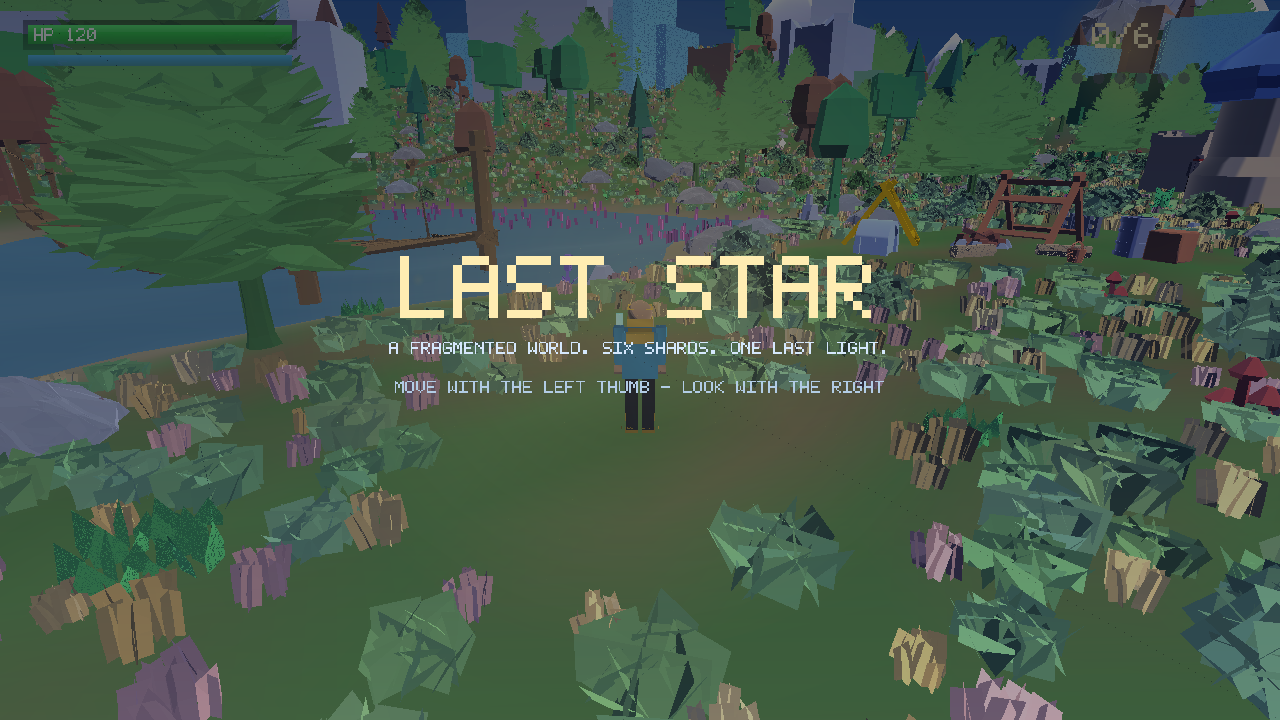
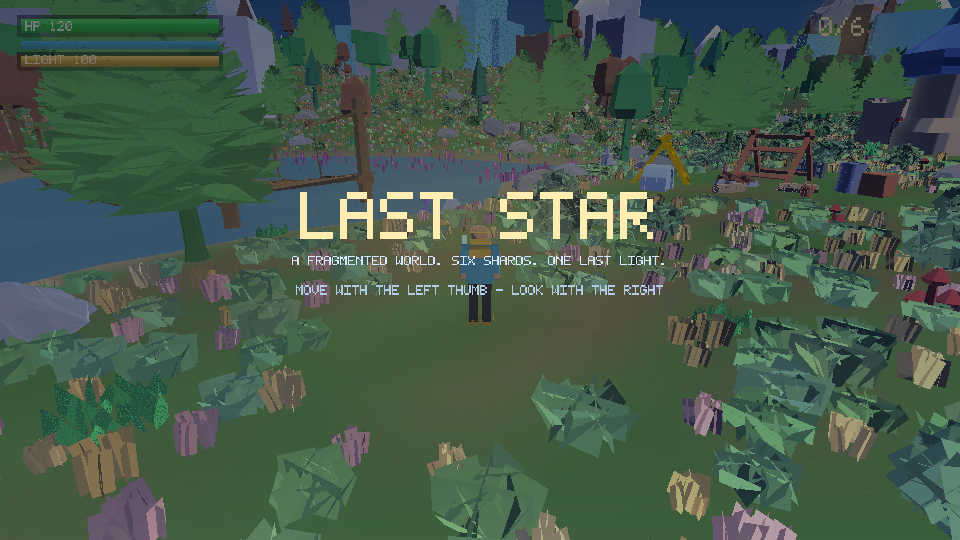
Fit long values in the journal card, and photograph real data
The preview was rendering an unbound menu, so the journal screenshots showed
the empty state. MenuPreview now binds a world with progress in it, and the
scroll-through report advances a real quest.

Chip values are fitted to their chip: a reward line like "+50 LIGHT CAPACITY"
is wider than a third of the card, and centred overflow hides text at both ends
rather than only the right. The location line moves into the gap above the
chips instead of colliding with them, and a description cut short ends in an
ellipsis rather than stopping mid-sentence.

diff --git a/app/src/main/java/com/laststar/game/ui/screens/QuestsScreen.java b/app/src/main/java/com/laststar/game/ui/screens/QuestsScreen.java
@@ -236,13 +236,13 @@ public final class QuestsScreen implements Screen {
                     Style.GOLD_LIGHT[0], Style.GOLD_LIGHT[1], Style.GOLD_LIGHT[2], alpha);
             QuestLog.Entry entry = i < rows.size() ? rows.get(i) : null;
             String title = entry == null ? "--"
-                    : fit(entry.def.title, font, w * 0.255f - 30f, 1, 0.6f);
+                    : fit(entry.def.title, font, w * 0.255f - 16f, 1, 0.6f);
             b.textSpaced(title, rx + 22f, y + 6f, 1, 0.6f,
                     selected ? Style.IVORY[0] : Style.CREAM[0],
                     selected ? Style.IVORY[1] : Style.CREAM[1],
                     selected ? Style.IVORY[2] : Style.CREAM[2], alpha, font);
             String objective = entry == null ? ""
-                    : fit(entry.def.objectiveLine(), font, w * 0.255f - 30f, 1, 0.3f);
+                    : fit(entry.def.objectiveLine(), font, w * 0.255f - 16f, 1, 0.26f);
             b.textSpaced(objective, rx + 22f, y + 19f, 1, 0.3f,
                     Style.CREAM_DIM[0], Style.CREAM_DIM[1], Style.CREAM_DIM[2], alpha * 0.9f,
                     font);
@@ -307,19 +307,26 @@ public final class QuestsScreen implements Screen {
                 : entry.def.summary;
         float maxWidth = cw - 52f;
         String[] lines = UiBatch.wrap(desc, font, 1, 0.35f, maxWidth);
-        float ty = my + 56f;
+        float ty = my + 54f;
         for (int i = 0; i < lines.length && i < 3; i++) {
-            b.textSpaced(lines[i], cx + 26f, ty, 1, 0.35f,
+            String line = lines[i];
+            // The last line of a truncated block ends in an ellipsis, so it
+            // reads as cut rather than as a sentence that stopped dead.
+            if (i == 2 && lines.length > 3) {
+                line = fit(line + " " + lines[3], font, maxWidth, 1, 0.35f);
+            }
+            b.textSpaced(line, cx + 26f, ty, 1, 0.35f,
                     Style.INK[0] * 0.9f, Style.INK[1] * 0.9f, Style.INK[2] * 0.9f,
                     alpha * 0.92f, font);
             ty += 12.5f;
         }
 
-        // Where it is, so an entry reads as a place.
+        // Where it is, so an entry reads as a place. Sits under the
+        // description and above the chips, in the gap the card actually has.
         if (entry != null) {
             String where = Elaris.regions()[entry.def.region].name
                     + "  /  LEVEL " + entry.def.level;
-            b.textSpacedCentred(where, mx, ty + 4f, 1, 0.45f,
+            b.textSpacedCentred(where, mx, cy + ch - 82f, 1, 0.5f,
                     Style.GOLD[0], Style.GOLD[1], Style.GOLD[2], alpha * 0.85f, font);
         }
 
@@ -338,7 +345,11 @@ public final class QuestsScreen implements Screen {
             GenshinKit.parchment(b, chx, chipY, chipW, 26f, alpha * 0.95f);
             b.textSpacedCentred(chips[i], chx + chipW * 0.5f, chipY + 4f, 1, 0.6f,
                     Style.INK[0], Style.INK[1], Style.INK[2], alpha * 0.62f, font);
-            b.textSpacedCentred(values[i], chx + chipW * 0.5f, chipY + 15f, 1, 0.5f,
+            // Fitted, because a reward line like "+50 LIGHT CAPACITY" is wider
+            // than a third of the card and centred overflow hides text at both
+            // ends rather than just the right.
+            String value = fit(values[i], font, chipW - 8f, 1, 0.5f);
+            b.textSpacedCentred(value, chx + chipW * 0.5f, chipY + 15f, 1, 0.5f,
                     Style.INK[0], Style.INK[1], Style.INK[2], alpha, font);
         }
 

diff --git a/desktop/MenuPreview.java b/desktop/MenuPreview.java
@@ -46,6 +46,26 @@ public final class MenuPreview {
                 new com.laststar.game.core.Mat4());
         UiBatch ui = new UiBatch();
         Menu menu = new Menu();
+        // Bind a real world: the journal and the shop read live state now, so
+        // an unbound preview would photograph the empty state rather than the
+        // screen a player actually sees.
+        com.laststar.game.world.World previewWorld =
+                new com.laststar.game.world.World(20261105L);
+        previewWorld.quests.refreshAvailability();
+        previewWorld.gold = 1840;
+        // Advance a little progress so the bars are not all empty.
+        java.util.List<com.laststar.game.world.QuestLog.Entry> open =
+                previewWorld.quests.openQuests();
+        if (!open.isEmpty()) {
+            com.laststar.game.world.QuestLog.Entry q = open.get(0);
+            previewWorld.quests.report(q.def.kind, q.def.subject, q.def.target / 2);
+        }
+        if (!open.isEmpty()) {
+            com.laststar.game.world.QuestLog.Entry q2 =
+                    previewWorld.quests.openQuests().get(0);
+            previewWorld.quests.report(q2.def.kind, q2.def.subject, q2.def.target);
+        }
+        menu.bind(previewWorld);
         // Jump straight to the page, then let everything settle.
         menu.page = page;
         menu.shownForTest(page);
@@ -63,8 +83,9 @@ public final class MenuPreview {
                 menu.update(1f / 60f);
             }
         } else if ("side".equals(variant)) {
-            menu.quests.activeTab = 1;
+            menu.quests.activeTab = 2;
             menu.quests.selectedQuest = 2;
+            menu.update(1f / 60f);
         }
         if ("font".equals(variant)) {
             ui.begin(720, 405);
